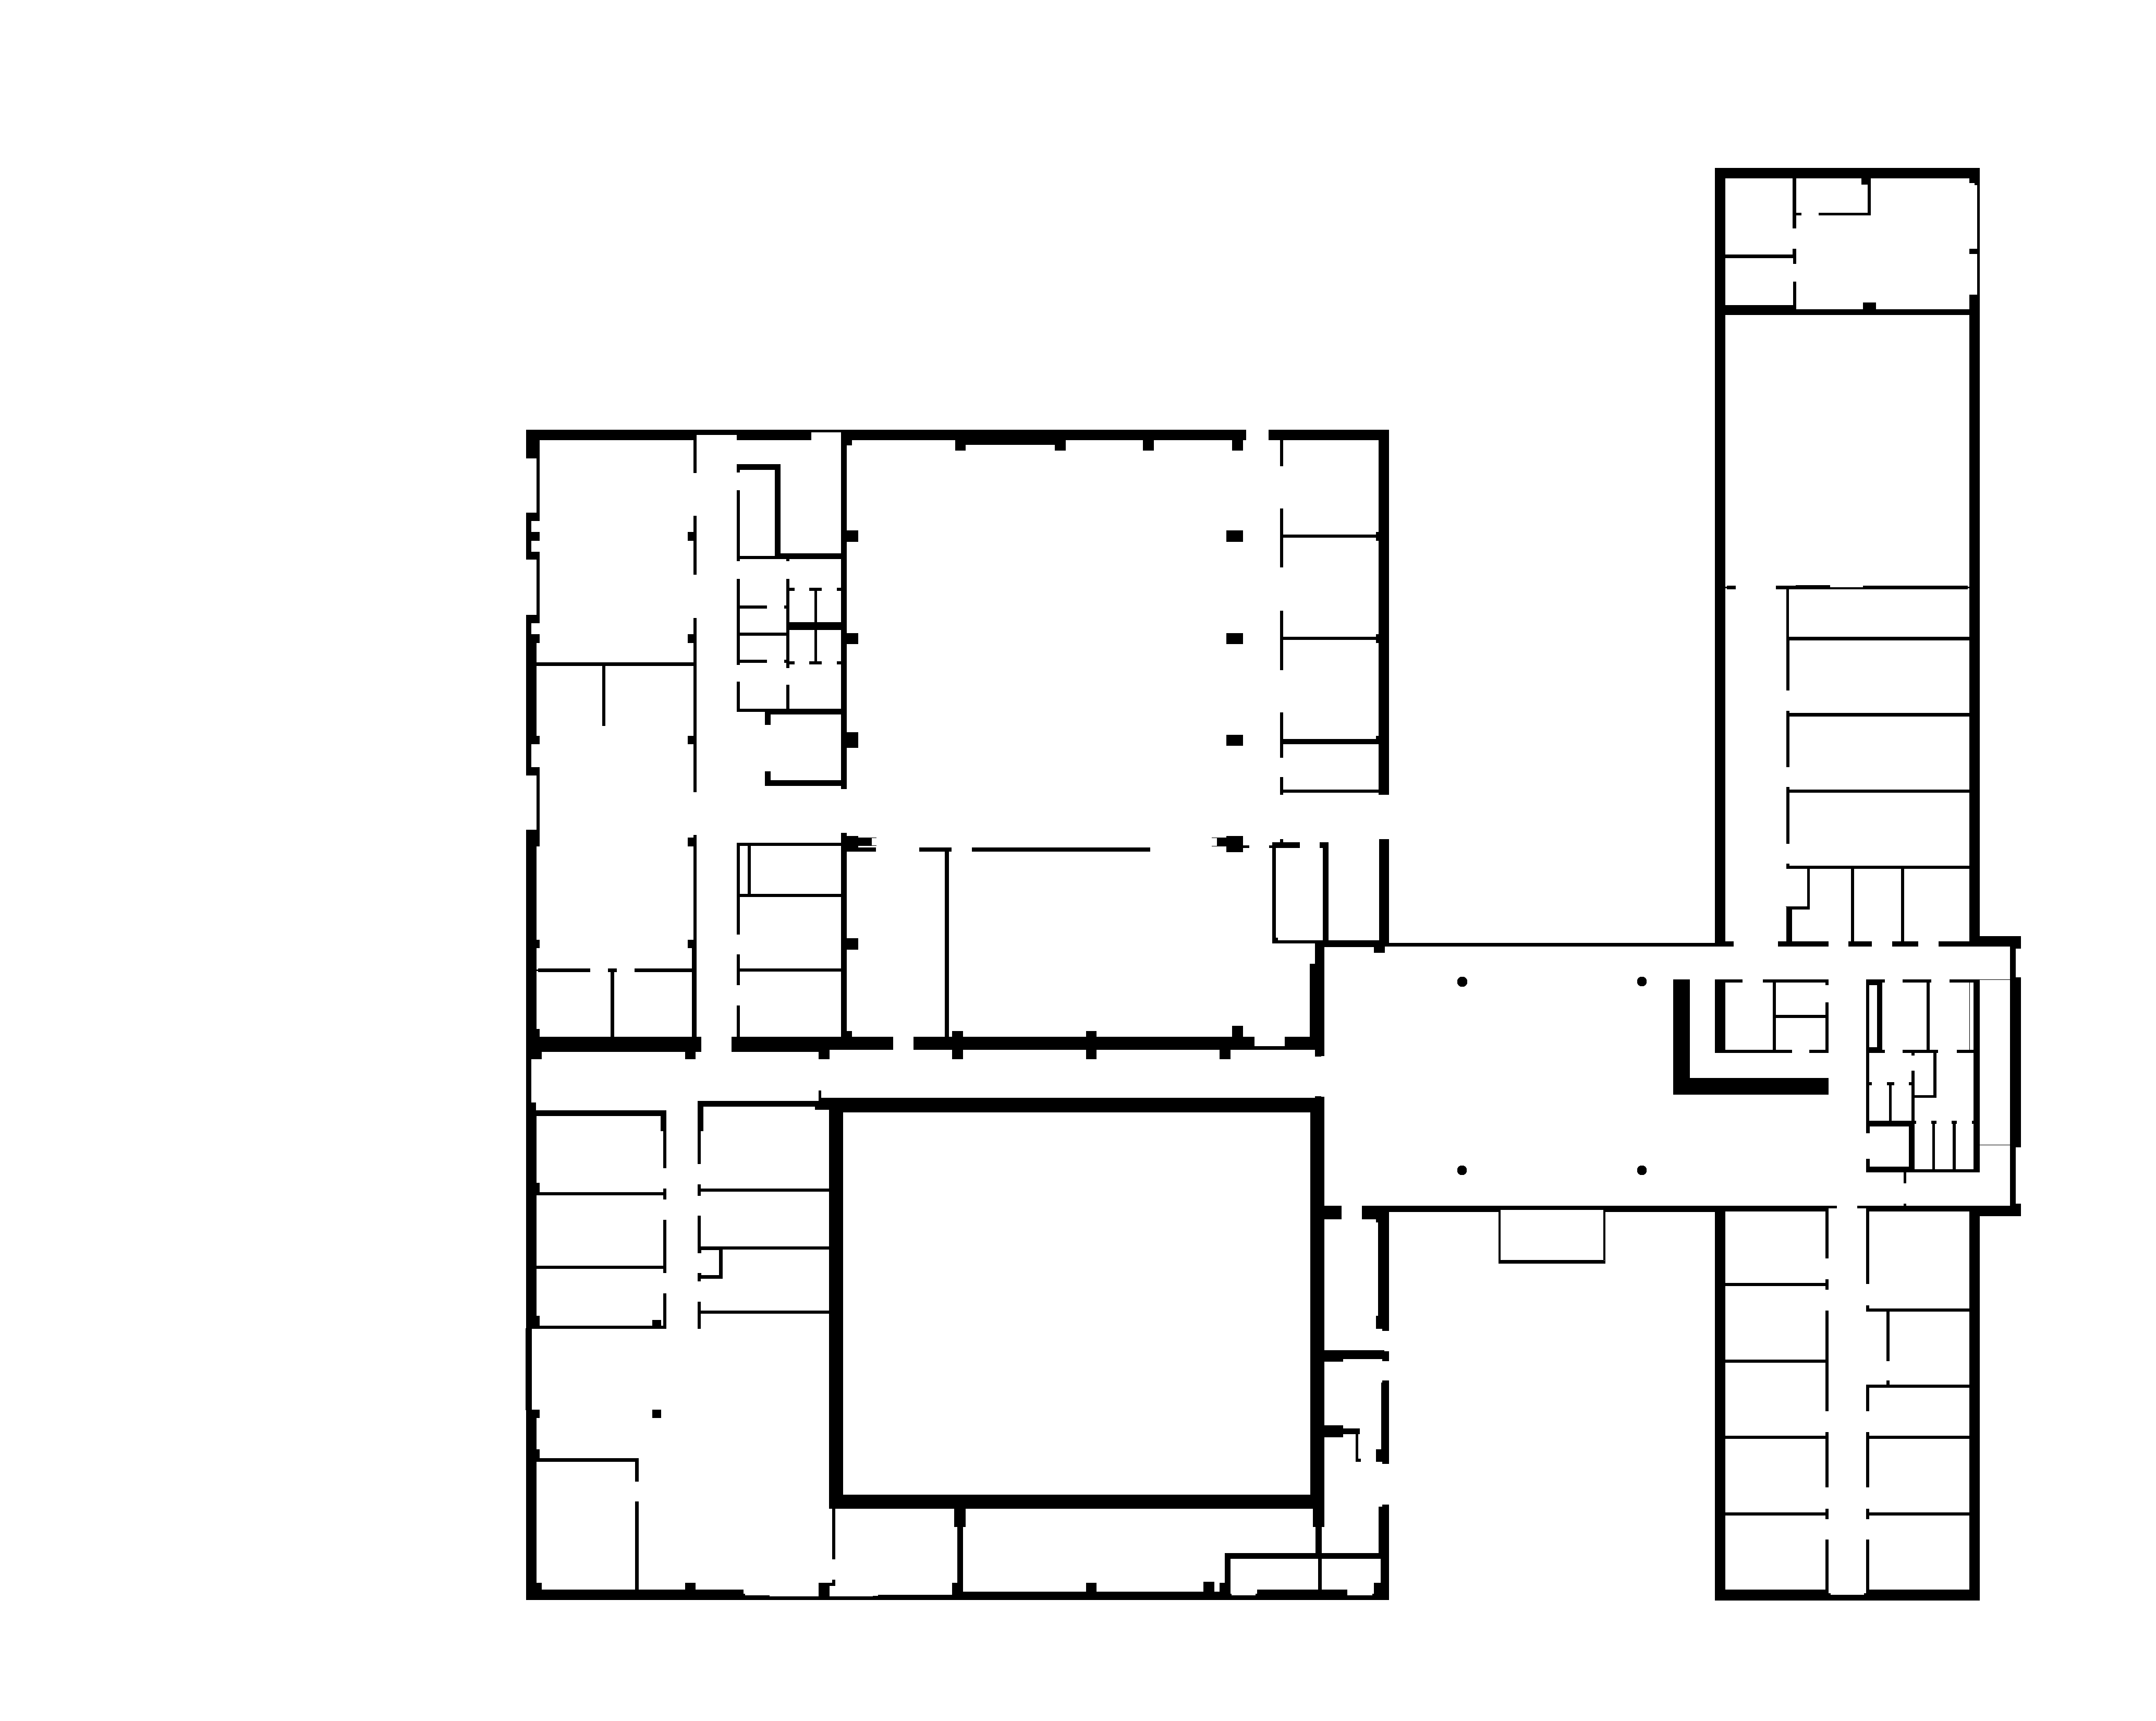
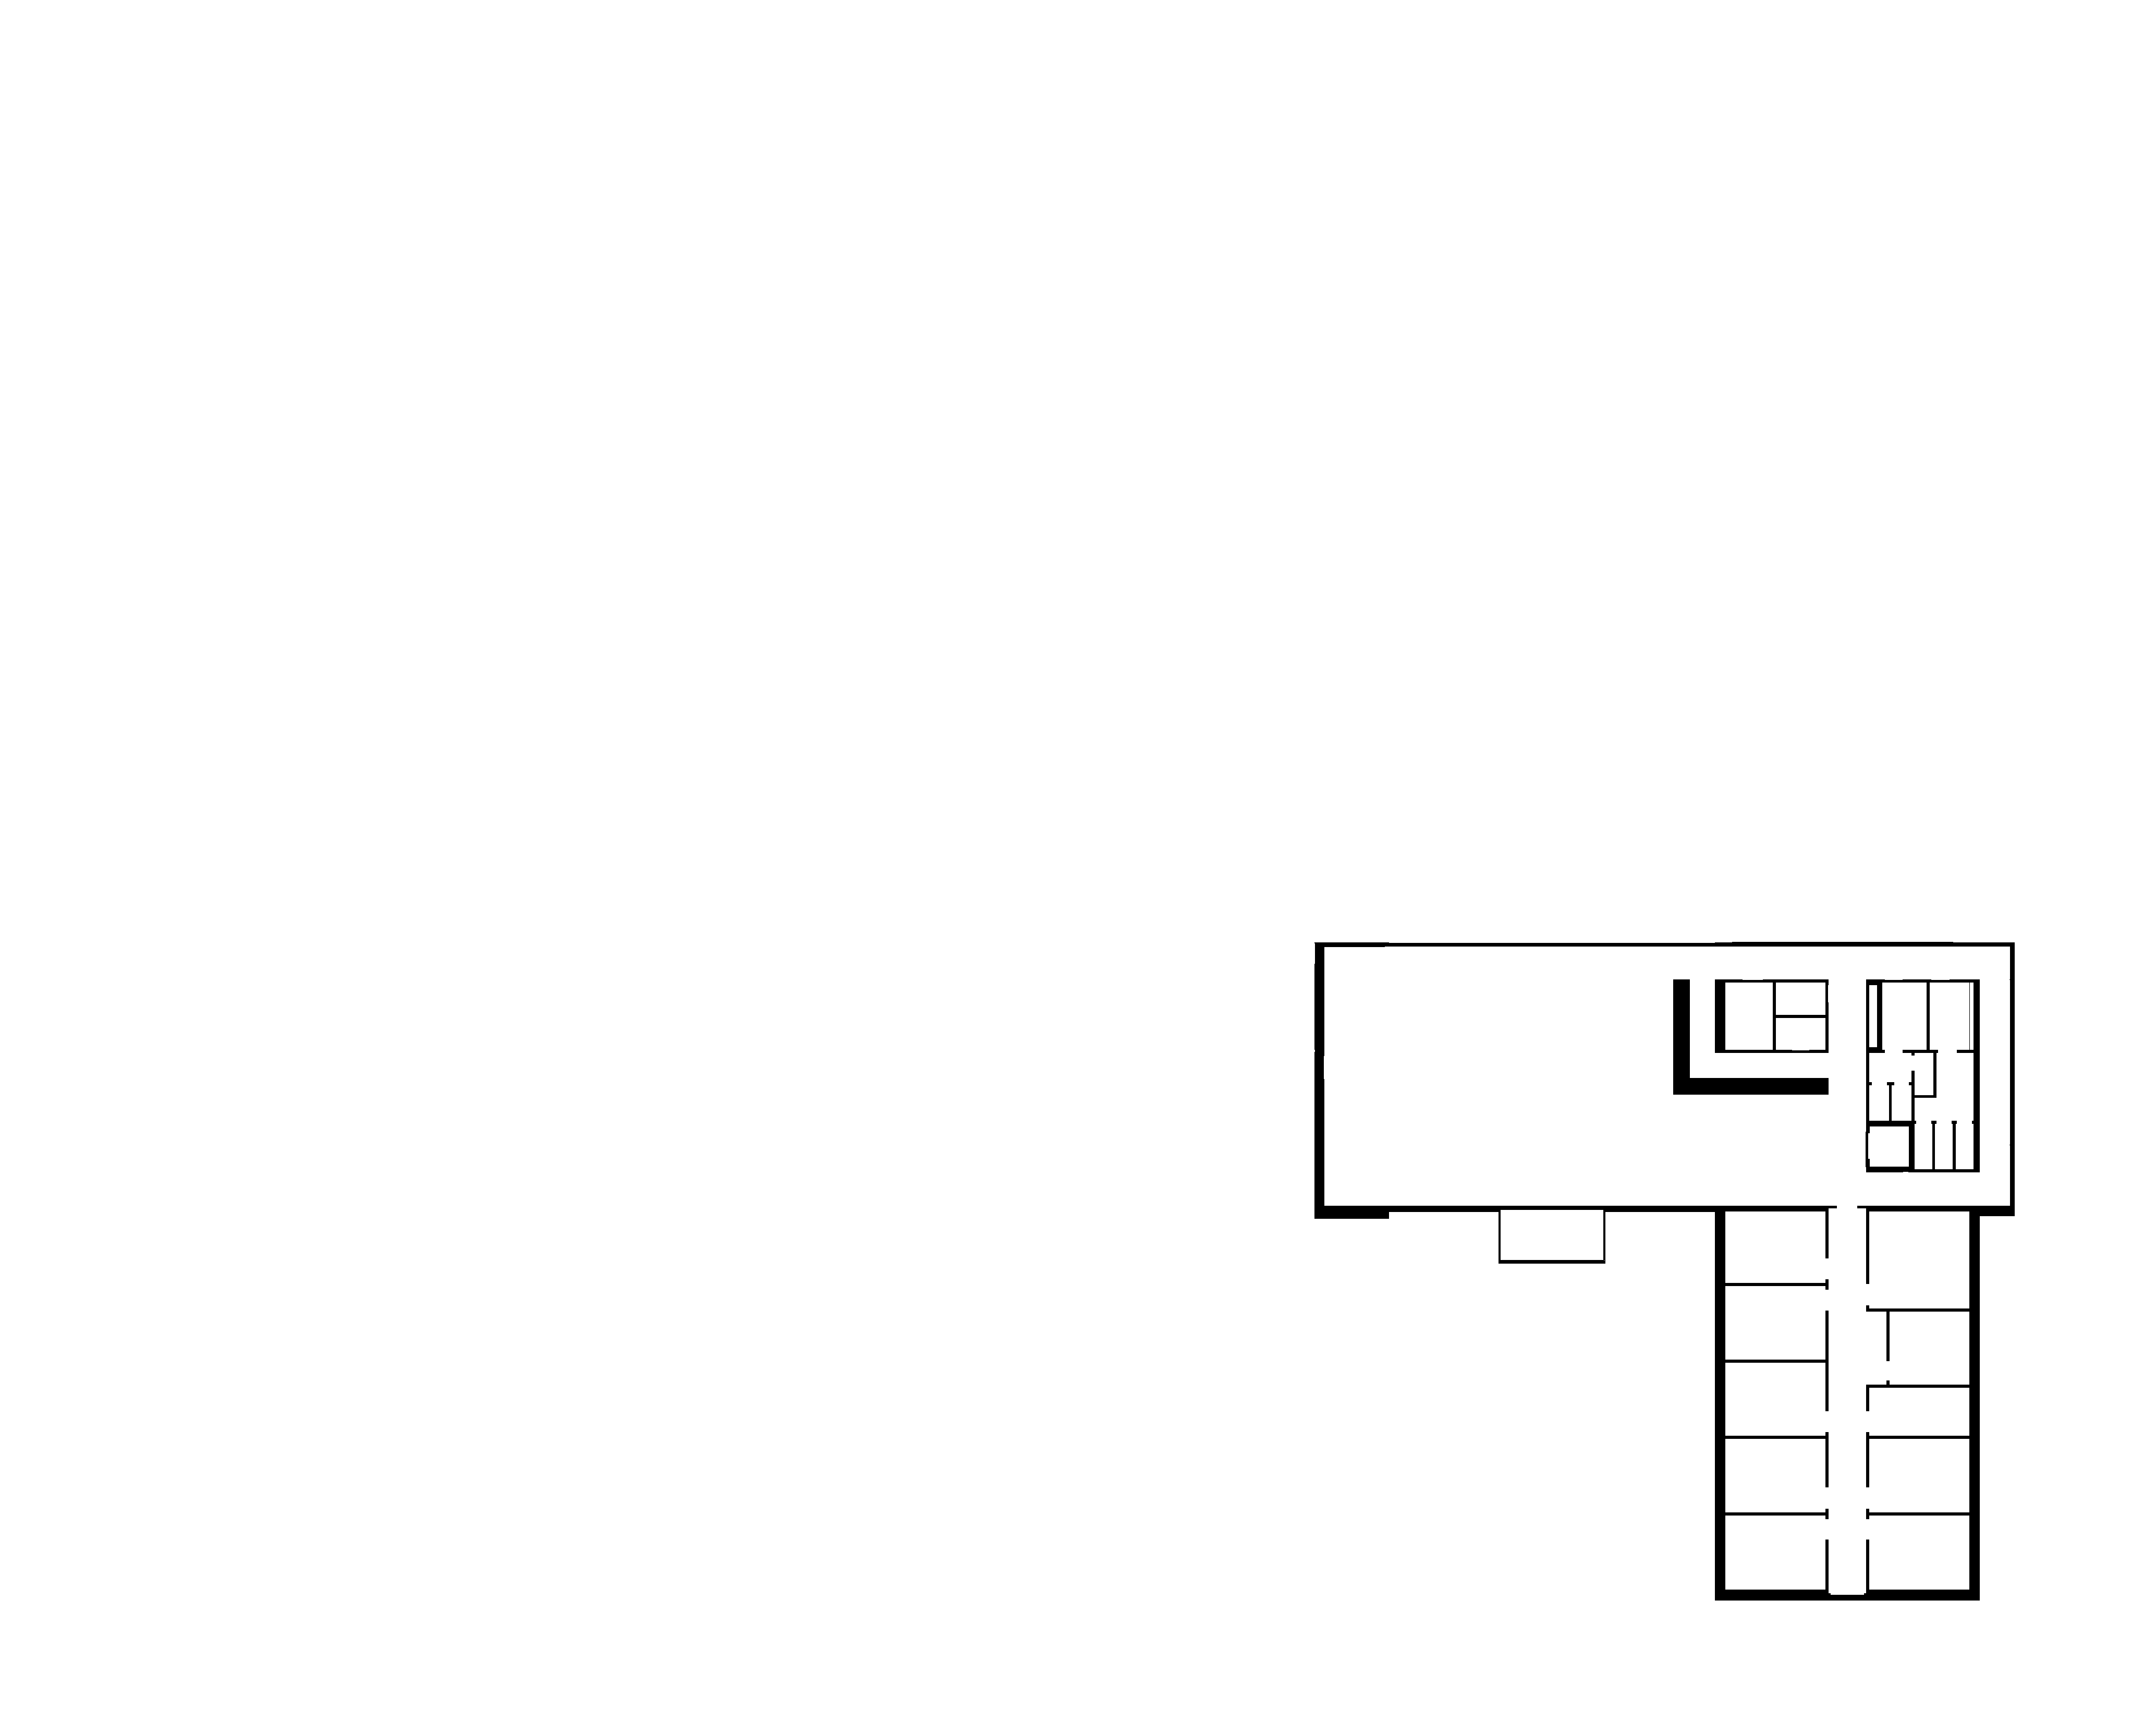
use navgation / handle_go_to_marker

diff --git a/ricbot_navigation/node.py b/ricbot_navigation/node.py
@@ -18,8 +18,9 @@ class NavNode(Node):
     def __init__(self):
         super().__init__('ricbot_navigation_node')
         self.nav = BasicNavigator()
-        self.marker_cli = self.create_client(
-            ListMarker, 'mapdesc/marker/list')
+        self.marker_cli = self.create_client(ListMarker, 'mapdesc/marker/list')
+        self.marker_data = []  # Store markers data
+        self.go_to_marker_srv = self.create_service(GoToMarker, 'go_to_marker', self.handle_go_to_marker)  # Create custom service
 
     def _create_pose_stamped(self, basic_pose: Pose) -> PoseStamped:
         pose = PoseStamped()
@@ -53,14 +54,6 @@ class NavNode(Node):
         self.get_logger().info(f'Received {len(_marker)} marker 👍!')
         if len(_marker) == 0:
             return
-        while True:
-            for marker in _marker:
-                self.get_logger().info(
-                    f"Will move to waypoint {marker.name} - "
-                    f"x: {marker.pose.position.x} "
-                    f"y: {marker.pose.position.y}")
-                self.move_to_waypoint(
-                    self._create_pose_stamped(marker.pose))
 
     def move_to_waypoint(self, pose: PoseStamped):
         nav = self.nav
@@ -71,11 +64,33 @@ class NavNode(Node):
                 # feedback = nav.getFeedback()
                 # self.get_logger().info(feedback)
             result = nav.getResult()
-            print(result)
-            # self.get_logger().info(result)
+            self.get_logger().info(f'Navigation result: {result}')
         except KeyboardInterrupt:
             self.get_logger().info("Keyboard interrupt!")
             nav.cancelTask()
+
+    def handle_go_to_marker(self, request, response):
+        marker_name = request.marker_name
+        if marker_name == "route":
+            for marker in self.marker_data:
+                self.get_logger().info(f"Moving to marker {marker.name} at position x: {marker.pose.position.x} y: {marker.pose.position.y}")
+                self.move_to_waypoint(self._create_pose_stamped(marker.pose))
+            response.success = True
+            response.message = "Successfully navigated the entire route"
+            return response
+        else:
+            for marker in self.marker_data:
+                if marker.name == marker_name:
+                    self.get_logger().info(f"Moving to marker {marker_name} at position x: {marker.pose.position.x} y: {marker.pose.position.y}")
+                    self.move_to_waypoint(self._create_pose_stamped(marker.pose))
+                    response.success = True
+                    response.message = f"Successfully moved to {marker_name}"
+                    return response
+            
+            self.get_logger().info(f"Marker {marker_name} not found.")
+            response.success = False
+            response.message = f"Marker {marker_name} not found."
+            return response
 
     def spin(self):
         while rclpy.ok():

diff --git a/launch/ricbot_nav.launch.py b/launch/ricbot_nav.launch.py
@@ -42,6 +42,15 @@ def launch_setup(context, *args, **kwargs):
             )
         ]))
 
+    launch_description.append(LaunchDescription([
+            Node(
+                package='ricbot_navigation',
+                executable='marker_info_node',
+                name='marker_info_node',
+                parameters=[]
+            )
+        ]))
+
     return launch_description
 
 